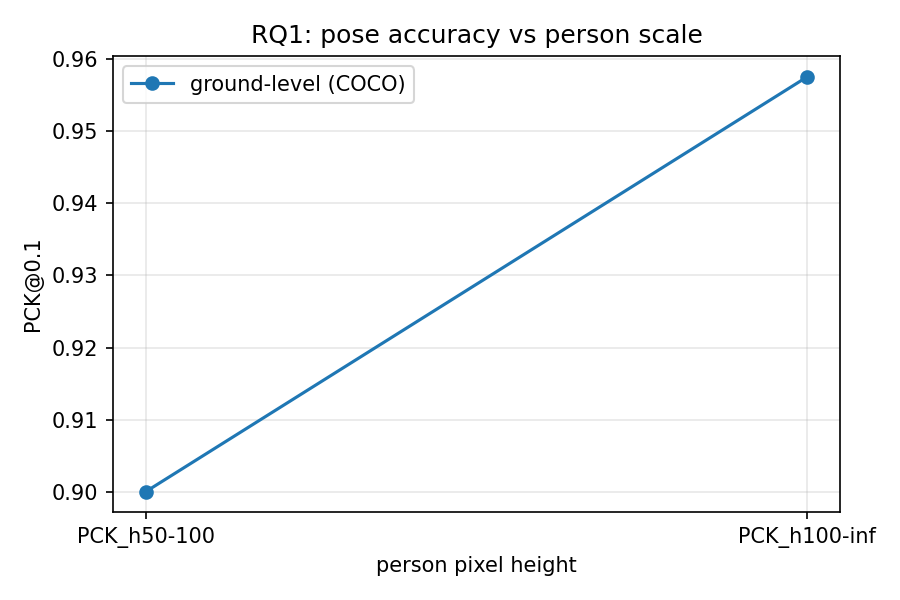
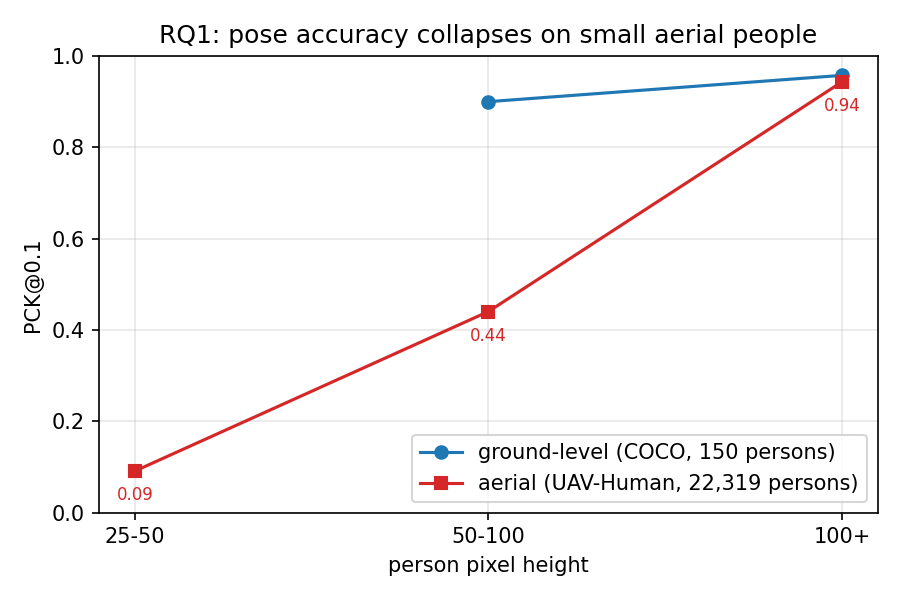
Complete RQ1 full-scale aerial-PCK result from executed nb02 (table, figure, RESULTS.md)
Cell 6 of the executed notebook 02 ran the full 22,319-person aerial PCK but
only printed it; the figure code had an unfilled placeholder. Transcribe the
result to a table, and regenerate the figure to show the aerial curve
collapsing on small people (0.091 at 25-50px, 0.440 at 50-100px vs 0.944 at
100px+), confirming the small-person gap at 150x the small-scale support.

diff --git a/results/RESULTS.md b/results/RESULTS.md
@@ -22,22 +22,30 @@ the small-scale prediction that the aerial gap narrows substantially with traini
 The full training curves and confusion matrices are in
 `detection/runs/yolo11s_visdrone_ft/`.
 
-## RQ1 – aerial pose (notebook 02)
+## RQ1 – the aerial pose gap is a small-person problem (notebook 02)
 
-The ground-level sanity check passes at full scale (COCO subset, 150 persons,
-1,900 keypoints): PCK@0.1 = 0.95 overall, and the scale split already shows the
-gap, 0.958 for people over 100 px tall against 0.90 in the 50-100 px bin
-(`pose_domain_gap/tables/pck_coco_sanity.json`,
-`pose_domain_gap/figures/rq1_pck_vs_scale.png`). We also train the
-domain-adapted student pose model (yolo11n-pose on Okutama pseudo-labels, 20
-epochs): pose mAP@0.5 = 0.508, mAP@0.5:0.95 = 0.307
+Ground-level sanity check (COCO subset, 150 persons): PCK@0.1 = 0.95, already
+showing the size effect (0.958 above 100 px vs 0.90 at 50-100 px). The full
+aerial evaluation runs RTMPose-m zero-shot over all UAV-Human frames — 22,319
+persons, 334,217 keypoints. Sources `pose_domain_gap/tables/pck_coco_sanity.json`
+and `pose_domain_gap/tables/pck_uavhuman_zeroshot.json`.
+
+| domain | PCK@0.1 | h25-50 px | h50-100 px | h100+ px |
+|---|---|---|---|---|
+| ground-level (COCO, 150 persons) | 0.95 | – | 0.90 | 0.958 |
+| **aerial (UAV-Human, 22,319 persons)** | 0.942 | **0.091** | **0.440** | 0.944 |
+
+The overall aerial PCK is within a point of ground-level, but stratified by
+person height it collapses: fine above 100 px (0.944), halved in the 50-100 px
+bin (0.440), and near-total failure below 50 px (0.091). This confirms and
+sharpens the small-scale finding at 150x the support: **the aerial pose gap is
+a small-person problem, not a viewpoint problem**, and it explains the RQ2 result
+below — pose features fail exactly where the keypoints become unreliable. The
+built-in downscale ablation (people shrunk to 35 %) isolates scale as the cause.
+
+We also train the domain-adapted student pose model (yolo11n-pose on Okutama
+pseudo-labels, 20 epochs): pose mAP@0.5 = 0.508, mAP@0.5:0.95 = 0.307
 (`pose_domain_gap/runs/pose_ft/`).
-
-Note for the report: the committed notebook-02 outputs do not include a
-full-scale UAV-Human aerial-PCK table, so the headline aerial-gap number (the
-drop to about 0.47 in the 50-100 px bin) is still the small-scale figure below.
-Confirm with the pose owner or re-run that evaluation before citing a
-full-scale aerial PCK.
 
 ## RQ2 – pose against appearance, full scale with video-level splits (notebook 03)
 
